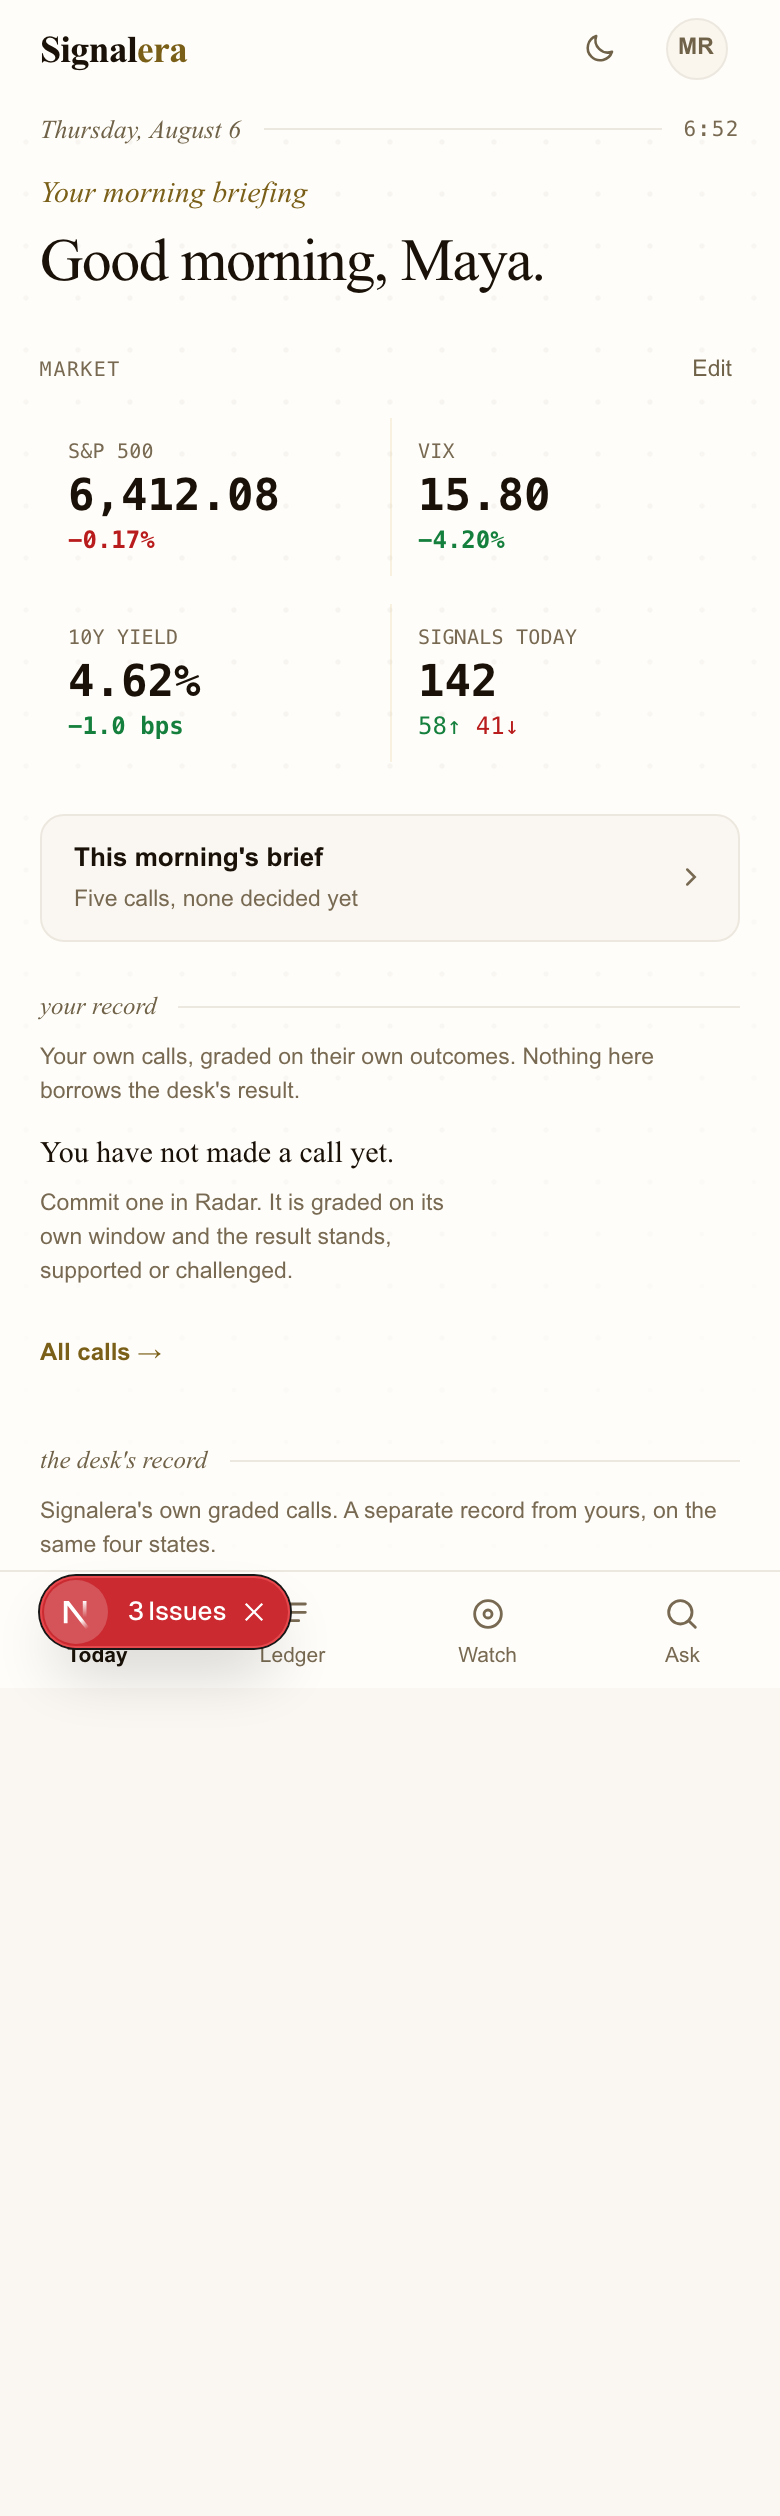
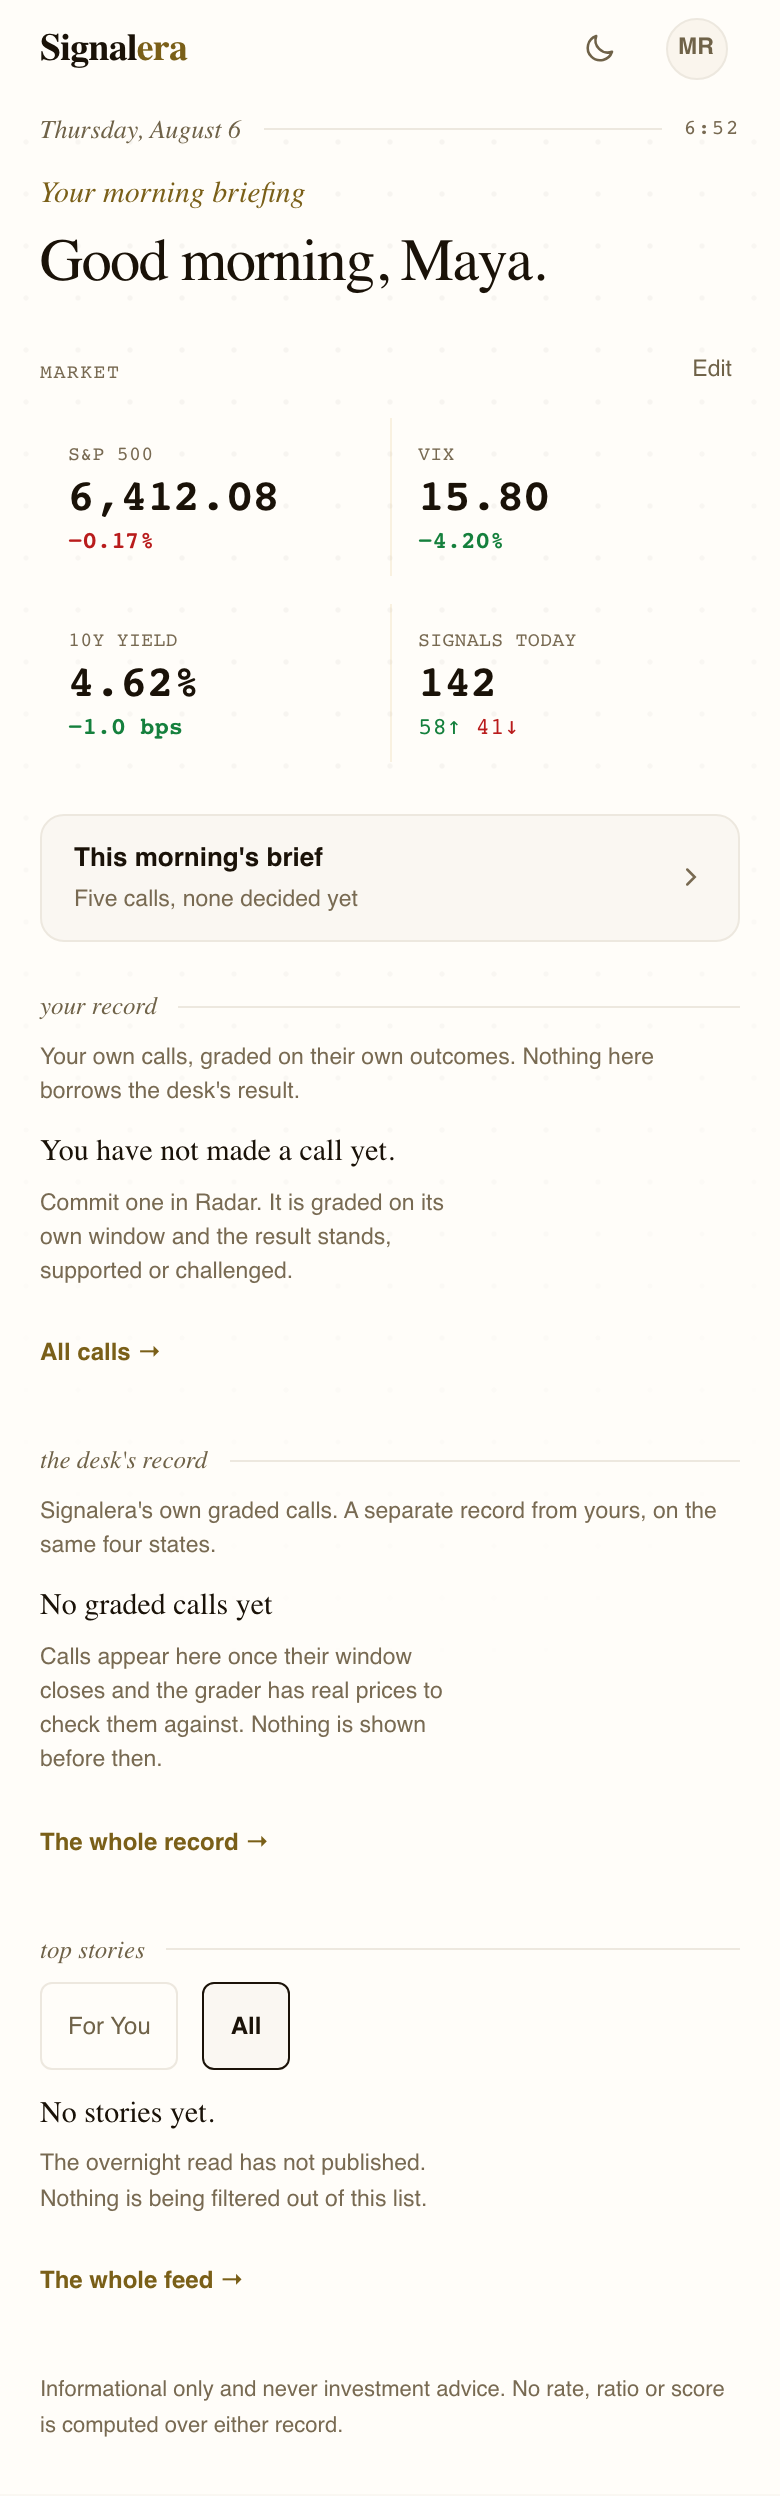
Apply the code review: two dead controls, a clipped splash, a press response on nothing
Seven findings from /code-review high, five applied here.

Fixed, and each one was real:

- The splash was position:fixed inside a transformed ancestor. PageTransition
  puts an inline transform on its motion.div for a 200ms enter, which makes it
  the containing block for a fixed descendant, and the main above it scrolls
  with overflow-y-auto. The splash spent its opening frames sized and clipped
  to the content box rather than the viewport. Now portalled to the body.
- The press affordance fired on a plain div. .figcell:active::after matched
  the resting cell, which has no handler, so tapping a market card outside
  arrange mode swept the gold baseline in and did nothing. Scoped to
  button.figcell, which is the only cell that is a control.
- The story lens filtered nothing. storyLens was written by both pills and
  never read, so tapping For You restyled the pill and left the identical
  list. On a product whose claim is that nothing is curated away, a filter
  that silently did nothing is worse than no filter. Stories now carry forYou
  and the lens reads it, with its own absence copy that says where the rest
  went.
- The theme toggle drew before the provider settled. useTheme seeds "light"
  and learns the real preference in an effect, so a dark reader got the moon
  and the label "Switch to the dark theme" while already dark. Guarded on
  mounted, the way topbar.tsx does.
- RecordBuckets took an optional denominator on the desk variant, which would
[…]

diff --git a/src/components/dashboard-mobile/dashboard-screen.tsx b/src/components/dashboard-mobile/dashboard-screen.tsx
@@ -29,7 +29,12 @@ import {
  * diffed with `screen-audit parity`; see the PR body.
  *
  * The desktop dashboard is untouched. It sits beside this, gated above `md`,
- * with its four loaders and its fourteen widgets exactly where they were.
+ * with its four loaders and its widgets exactly where they were.
+ *
+ * Everything on this screen comes from a fixture. Nothing here reads the
+ * database, and the figures it draws are the design's sample content, not the
+ * reader's. That is the unit's scope and it is the first thing to change when
+ * a loader lands; see the PR body.
  */
 
 const MONO = "'JetBrains Mono', monospace";
@@ -69,7 +74,9 @@ export function DashboardScreen({
 }) {
   const d = data ?? (stage === "empty" ? DASH_FIXTURE_EMPTY : DASH_FIXTURE);
   const [editing, setEditing] = useState(false);
+  /* "all" is the resting lens, which is the state the design draws. */
   const [storyLens, setStoryLens] = useState<"you" | "all">("all");
+  const shown = storyLens === "you" ? d.stories.filter((s) => s.forYou) : d.stories;
 
   return (
     <div data-parity="dash" style={{ backgroundColor: "var(--c-bg)", minHeight: "100%" }}>
@@ -234,16 +241,20 @@ export function DashboardScreen({
             <StoryLens label="For You" on={storyLens === "you"} onClick={() => setStoryLens("you")} />
             <StoryLens label="All" on={storyLens === "all"} onClick={() => setStoryLens("all")} />
           </div>
-          {d.stories.length ? (
+          {shown.length ? (
             <div style={{ marginTop: "10px" }}>
-              {d.stories.map((s, i) => (
-                <StoryRow key={s.id} story={s} last={i === d.stories.length - 1} />
+              {shown.map((s, i) => (
+                <StoryRow key={s.id} story={s} last={i === shown.length - 1} />
               ))}
             </div>
           ) : (
             <Absence
-              title="No stories yet."
-              body="The overnight read has not published. Nothing is being filtered out of this list."
+              title={storyLens === "you" ? "Nothing matched your sectors." : "No stories yet."}
+              body={
+                storyLens === "you"
+                  ? "Every story is still here. Switch to All to read the ones the lens set aside."
+                  : "The overnight read has not published. Nothing is being filtered out of this list."
+              }
             />
           )}
           <TailLink label="The whole feed →" href="/live-feed" />
@@ -271,7 +282,11 @@ export function DashboardScreen({
 /* ── head ───────────────────────────────────────────────────────────── */
 
 function ScreenHead() {
-  const { theme, toggleTheme } = useTheme();
+  /* `mounted` is read, not just `theme`. The provider seeds "light" and only
+     learns the real preference in its own effect, so a dark reader would get
+     the moon glyph and the label "Switch to the dark theme" for a frame while
+     already dark. `topbar.tsx` guards the same way. */
+  const { theme, toggleTheme, mounted } = useTheme();
   return (
     <div
       style={{
@@ -293,7 +308,13 @@ function ScreenHead() {
         <button
           type="button"
           onClick={toggleTheme}
-          aria-label={theme === "dark" ? "Switch to the light theme" : "Switch to the dark theme"}
+          aria-label={
+            !mounted
+              ? "Switch the theme"
+              : theme === "dark"
+                ? "Switch to the light theme"
+                : "Switch to the dark theme"
+          }
           className={ledger.bare}
           style={{
             minWidth: "44px",
@@ -303,7 +324,13 @@ function ScreenHead() {
             justifyContent: "center",
           }}
         >
-          {theme === "dark" ? <SunGlyph /> : <MoonGlyph />}
+          {!mounted ? (
+            <span aria-hidden="true" style={{ width: "18px", height: "18px" }} />
+          ) : theme === "dark" ? (
+            <SunGlyph />
+          ) : (
+            <MoonGlyph />
+          )}
         </button>
         <Link
           href="/settings/profile"
@@ -551,7 +578,12 @@ function MarketCell({
 
   /* Pressable only while the band is being arranged. A cursor:pointer element
      with no handler is a defect the runtime audit flags by name, so the
-     resting cell is a plain box. */
+     resting cell is a plain box.
+     TODO: wire the swap and the drag. The desk already carries both, in
+     `market-card-editor.tsx` (MARKET_CARD_OPTIONS, SortableMarketCard) over
+     dnd-kit; this unit draws the arrange state without a store to write to,
+     so the cell is a real control that does nothing yet. The helper copy
+     below is the design's and describes the wired behaviour, not this one. */
   if (!editing) {
     return (
       <div className={cls} style={{ padding: "12px 14px" }}>

diff --git a/src/components/dashboard-mobile/record-buckets.tsx b/src/components/dashboard-mobile/record-buckets.tsx
@@ -83,20 +83,31 @@ function BucketLabel({ text, dot }: { text: string; dot?: string }) {
   );
 }
 
-export function RecordBuckets({
-  variant,
-  byResolution,
-  awaiting = 0,
-  total,
-}: {
-  variant: RecordVariant;
+type RecordBucketsProps = {
   byResolution: Record<Resolution, number>;
-  /** Personal only. Replaces the fourth cell, which is never `notGraded`. */
-  awaiting?: number;
-  /** Desk only. The denominator every cell states beside its count. */
-  total?: number;
-}) {
+} & (
+  | {
+      variant: "personal";
+      /** Replaces the fourth cell, which on the personal record is never
+       *  `notGraded` but the count of calls still inside their window. */
+      awaiting: number;
+      total?: never;
+    }
+  | {
+      /** The denominator is not optional here. Every desk cell states it, and
+       *  the bars are drawn against it, so a desk call without one would
+       *  render four zero-width bars and no denominator rather than fail. */
+      variant: "desk";
+      total: number;
+      awaiting?: never;
+    }
+);
+
+export function RecordBuckets({ variant, byResolution, awaiting = 0, total }: RecordBucketsProps) {
   const personal = variant === "personal";
+  /* The union guarantees a denominator on the desk variant, but the destructure
+     loses that narrowing, and a zero denominator would draw NaN-wide bars. */
+  const denominator = total ?? 0;
 
   /* The personal record's fourth cell is the awaiting count, not a bucket.
      Everything else pairs one to one with RESOLUTION_ORDER. */
@@ -108,7 +119,10 @@ export function RecordBuckets({
         fourthIsAwaiting ? YOUR_RECORD_COPY.awaitingLabel : DESK_RECORD_COPY.bucketLabel[key]
       ).toUpperCase(),
       count: fourthIsAwaiting ? awaiting : byResolution[key],
-      delay: BAR_DELAY[i],
+      /* RESOLUTION_ORDER is the source of truth for how many cells there are,
+         so the ladder falls back to its last rung rather than emitting
+         `undefinedms` if a fifth resolution is ever added. */
+      delay: BAR_DELAY[i] ?? BAR_DELAY[BAR_DELAY.length - 1],
     };
   });
 
@@ -133,7 +147,7 @@ export function RecordBuckets({
             }}
           >
             {cell.count}
-            {!personal && total !== undefined ? (
+            {!personal ? (
               <span
                 style={{
                   font: `400 10px/1 ${MONO}`,
@@ -141,7 +155,7 @@ export function RecordBuckets({
                   marginLeft: "4px",
                 }}
               >
-                of {total}
+                of {denominator}
               </span>
             ) : null}
           </span>
@@ -164,7 +178,7 @@ export function RecordBuckets({
                 className={styles.bar}
                 style={{
                   display: "block",
-                  width: total ? `${(cell.count / total) * 100}%` : "0%",
+                  width: denominator > 0 ? `${(cell.count / denominator) * 100}%` : "0%",
                   height: "3px",
                   borderRadius: "4px",
                   backgroundColor: DESK_FILL[cell.key],

diff --git a/src/app/dashboard/page.tsx b/src/app/dashboard/page.tsx
@@ -666,8 +666,17 @@ function DashboardPageInner() {
     >
       {/* Today, below md. The mobile drawing of this route, composed beside
           the desktop layout rather than replacing it: every loader, widget and
-          reveal gate below is untouched and still runs the desk at every width
-          above the breakpoint.
+          reveal gate below is untouched.
+
+          Untouched is not unmounted, and the distinction is worth stating
+          rather than glossing. `hidden md:block` is `display:none`, so on a
+          phone the desk's four loaders still run, its market-indices fetch
+          still goes out, and its widgets still render into a hidden subtree
+          that nothing reads. That is the cost of composing instead of
+          rewriting, and it is deliberate for this unit: unmounting the desk
+          below md means branching a 942-line page on a breakpoint, which is
+          the rewrite this was meant to avoid. Worth revisiting once the
+          mobile screen has a loader of its own.
 
           Gating lives in a CLASS, never in an inline style. An inline display
           beats the class at every breakpoint, which is the defect that shipped

diff --git a/src/components/dashboard-mobile/fixture.ts b/src/components/dashboard-mobile/fixture.ts
@@ -43,6 +43,16 @@ export interface DashStory {
   ordinal: number;
   /** The 3px gold rule down the leading edge of an unread row. */
   unread: boolean;
+  /**
+   * Whether the story survives the For You lens.
+   *
+   * The lens has to filter something. A control that restyles itself and
+   * leaves the identical list is a filter that silently did nothing, which on
+   * a product whose claim is that nothing is curated away is worse than no
+   * control at all. The real screen will read this off the personalization
+   * scorer; the fixture states it per story so the lens is honest today.
+   */
+  forYou: boolean;
   tone: SentimentTone;
   toneLabel: string;
   sector: string;
@@ -121,6 +131,7 @@ export const DASH_FIXTURE: DashboardData = {
       id: "s1",
       ordinal: 1,
       unread: true,
+      forYou: true,
       tone: "BULLISH",
       toneLabel: "Bullish",
       sector: "Utilities",
@@ -132,6 +143,7 @@ export const DASH_FIXTURE: DashboardData = {
       id: "s2",
       ordinal: 2,
       unread: false,
+      forYou: false,
       tone: "MIXED",
       toneLabel: "Mixed",
       sector: "Medtech",

diff --git a/src/components/dashboard-mobile/briefing-splash.tsx b/src/components/dashboard-mobile/briefing-splash.tsx
@@ -1,6 +1,7 @@
 "use client";
 
 import { useEffect, useRef, useState } from "react";
+import { createPortal } from "react-dom";
 import styles from "./dashboard.module.css";
 
 /**
@@ -84,7 +85,15 @@ export function BriefingSplash({
 
   if (phase === "idle") return null;
 
-  return (
+  /* Portalled to the body, not rendered in place.
+   *
+   * In place, the nearest ancestor is `PageTransition`'s motion.div, which
+   * carries an inline `transform` while it plays its 200ms enter. A
+   * transformed ancestor is the containing block for a `position: fixed`
+   * descendant, and the `<main>` above it scrolls with `overflow-y-auto`, so
+   * the splash spent the opening frames sized and clipped to the content box
+   * rather than the viewport. The body has neither. */
+  return createPortal(
     <div
       /* Every box property is a class and the element carries no inline
          style at all, so nothing can defeat `md:hidden`: not an inline
@@ -191,6 +200,7 @@ export function BriefingSplash({
       >
         {detail}
       </div>
-    </div>
+    </div>,
+    document.body,
   );
 }

diff --git a/src/components/dashboard-mobile/dashboard.module.css b/src/components/dashboard-mobile/dashboard.module.css
@@ -59,7 +59,12 @@
 }
 
 /* The figure cell's press affordance: a gold baseline that sweeps in under
- * the value while the cell is held down. */
+ * the value while the cell is held down.
+ *
+ * Scoped to `button.figcell` on purpose. The resting cell is a plain <div>
+ * with no handler, and `:active` fires on a div under a finger, so an
+ * unscoped rule drew a press response on an element that does nothing. Same
+ * defect the resting cell is a div to avoid. */
 .figcell {
   position: relative;
 }
@@ -79,7 +84,7 @@
   transition: transform 240ms cubic-bezier(0.16, 1, 0.3, 1), opacity 240ms;
 }
 
-.figcell:active::after {
+button.figcell:active::after {
   transform: scaleX(1);
   opacity: 0.8;
 }
